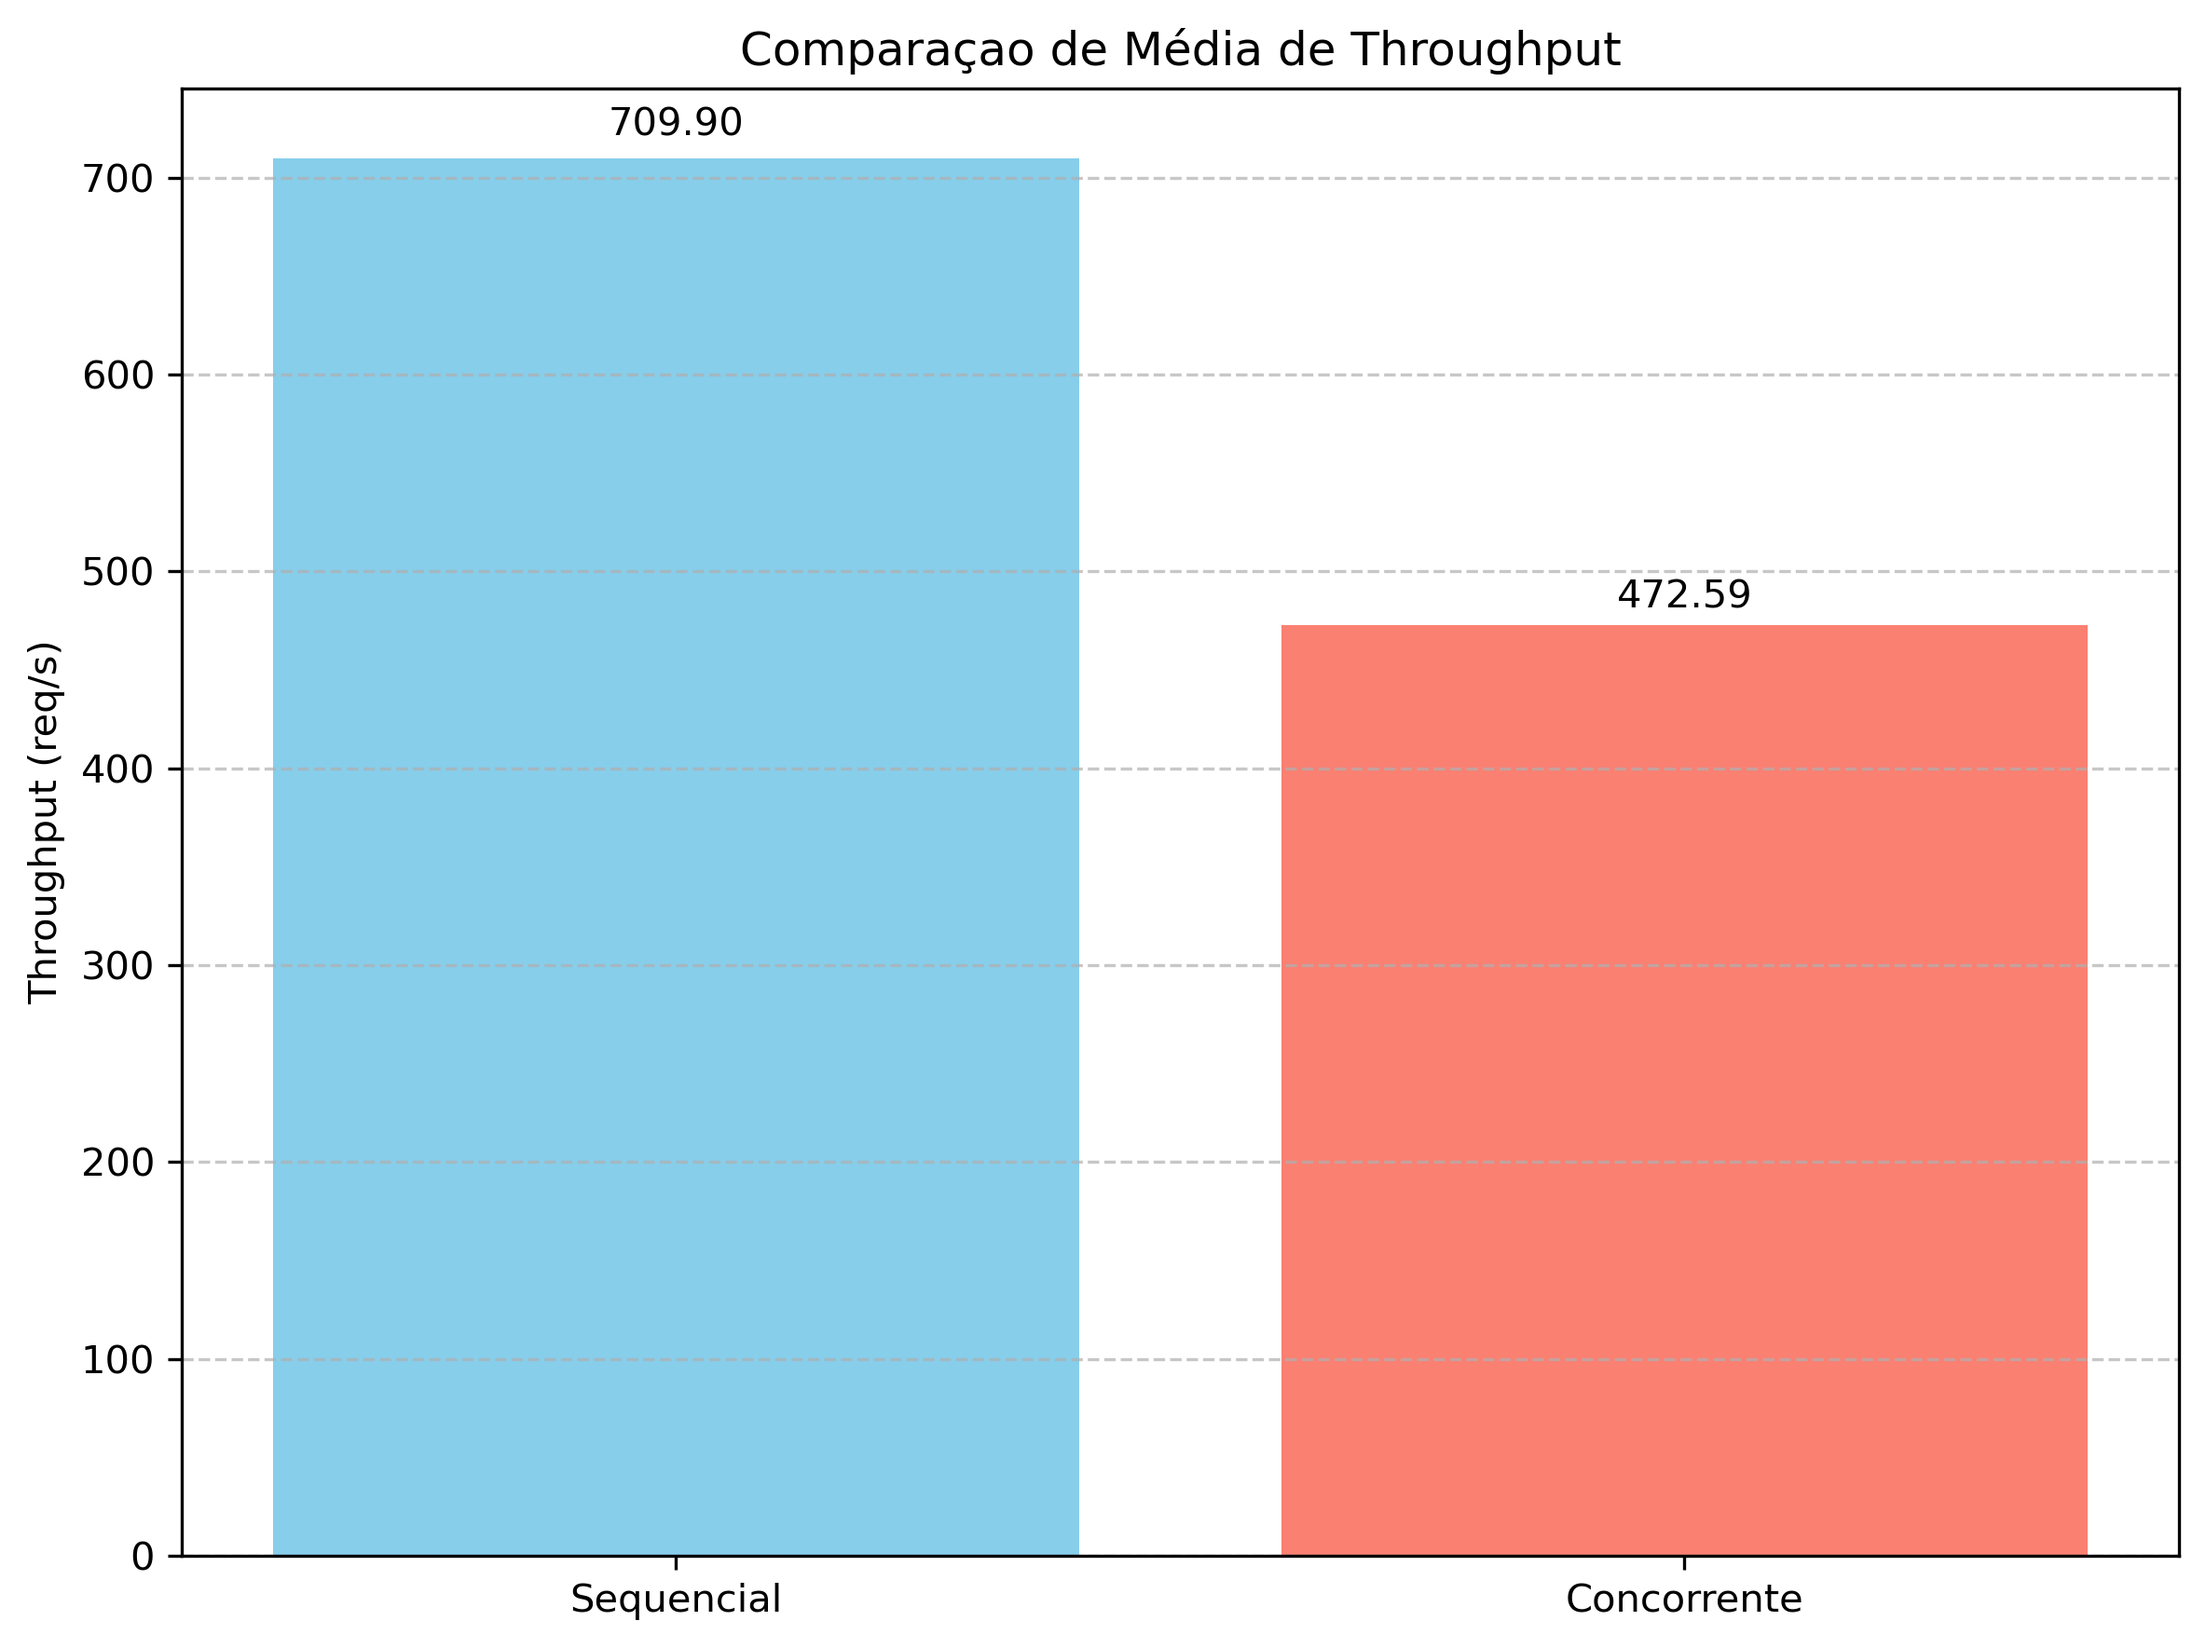
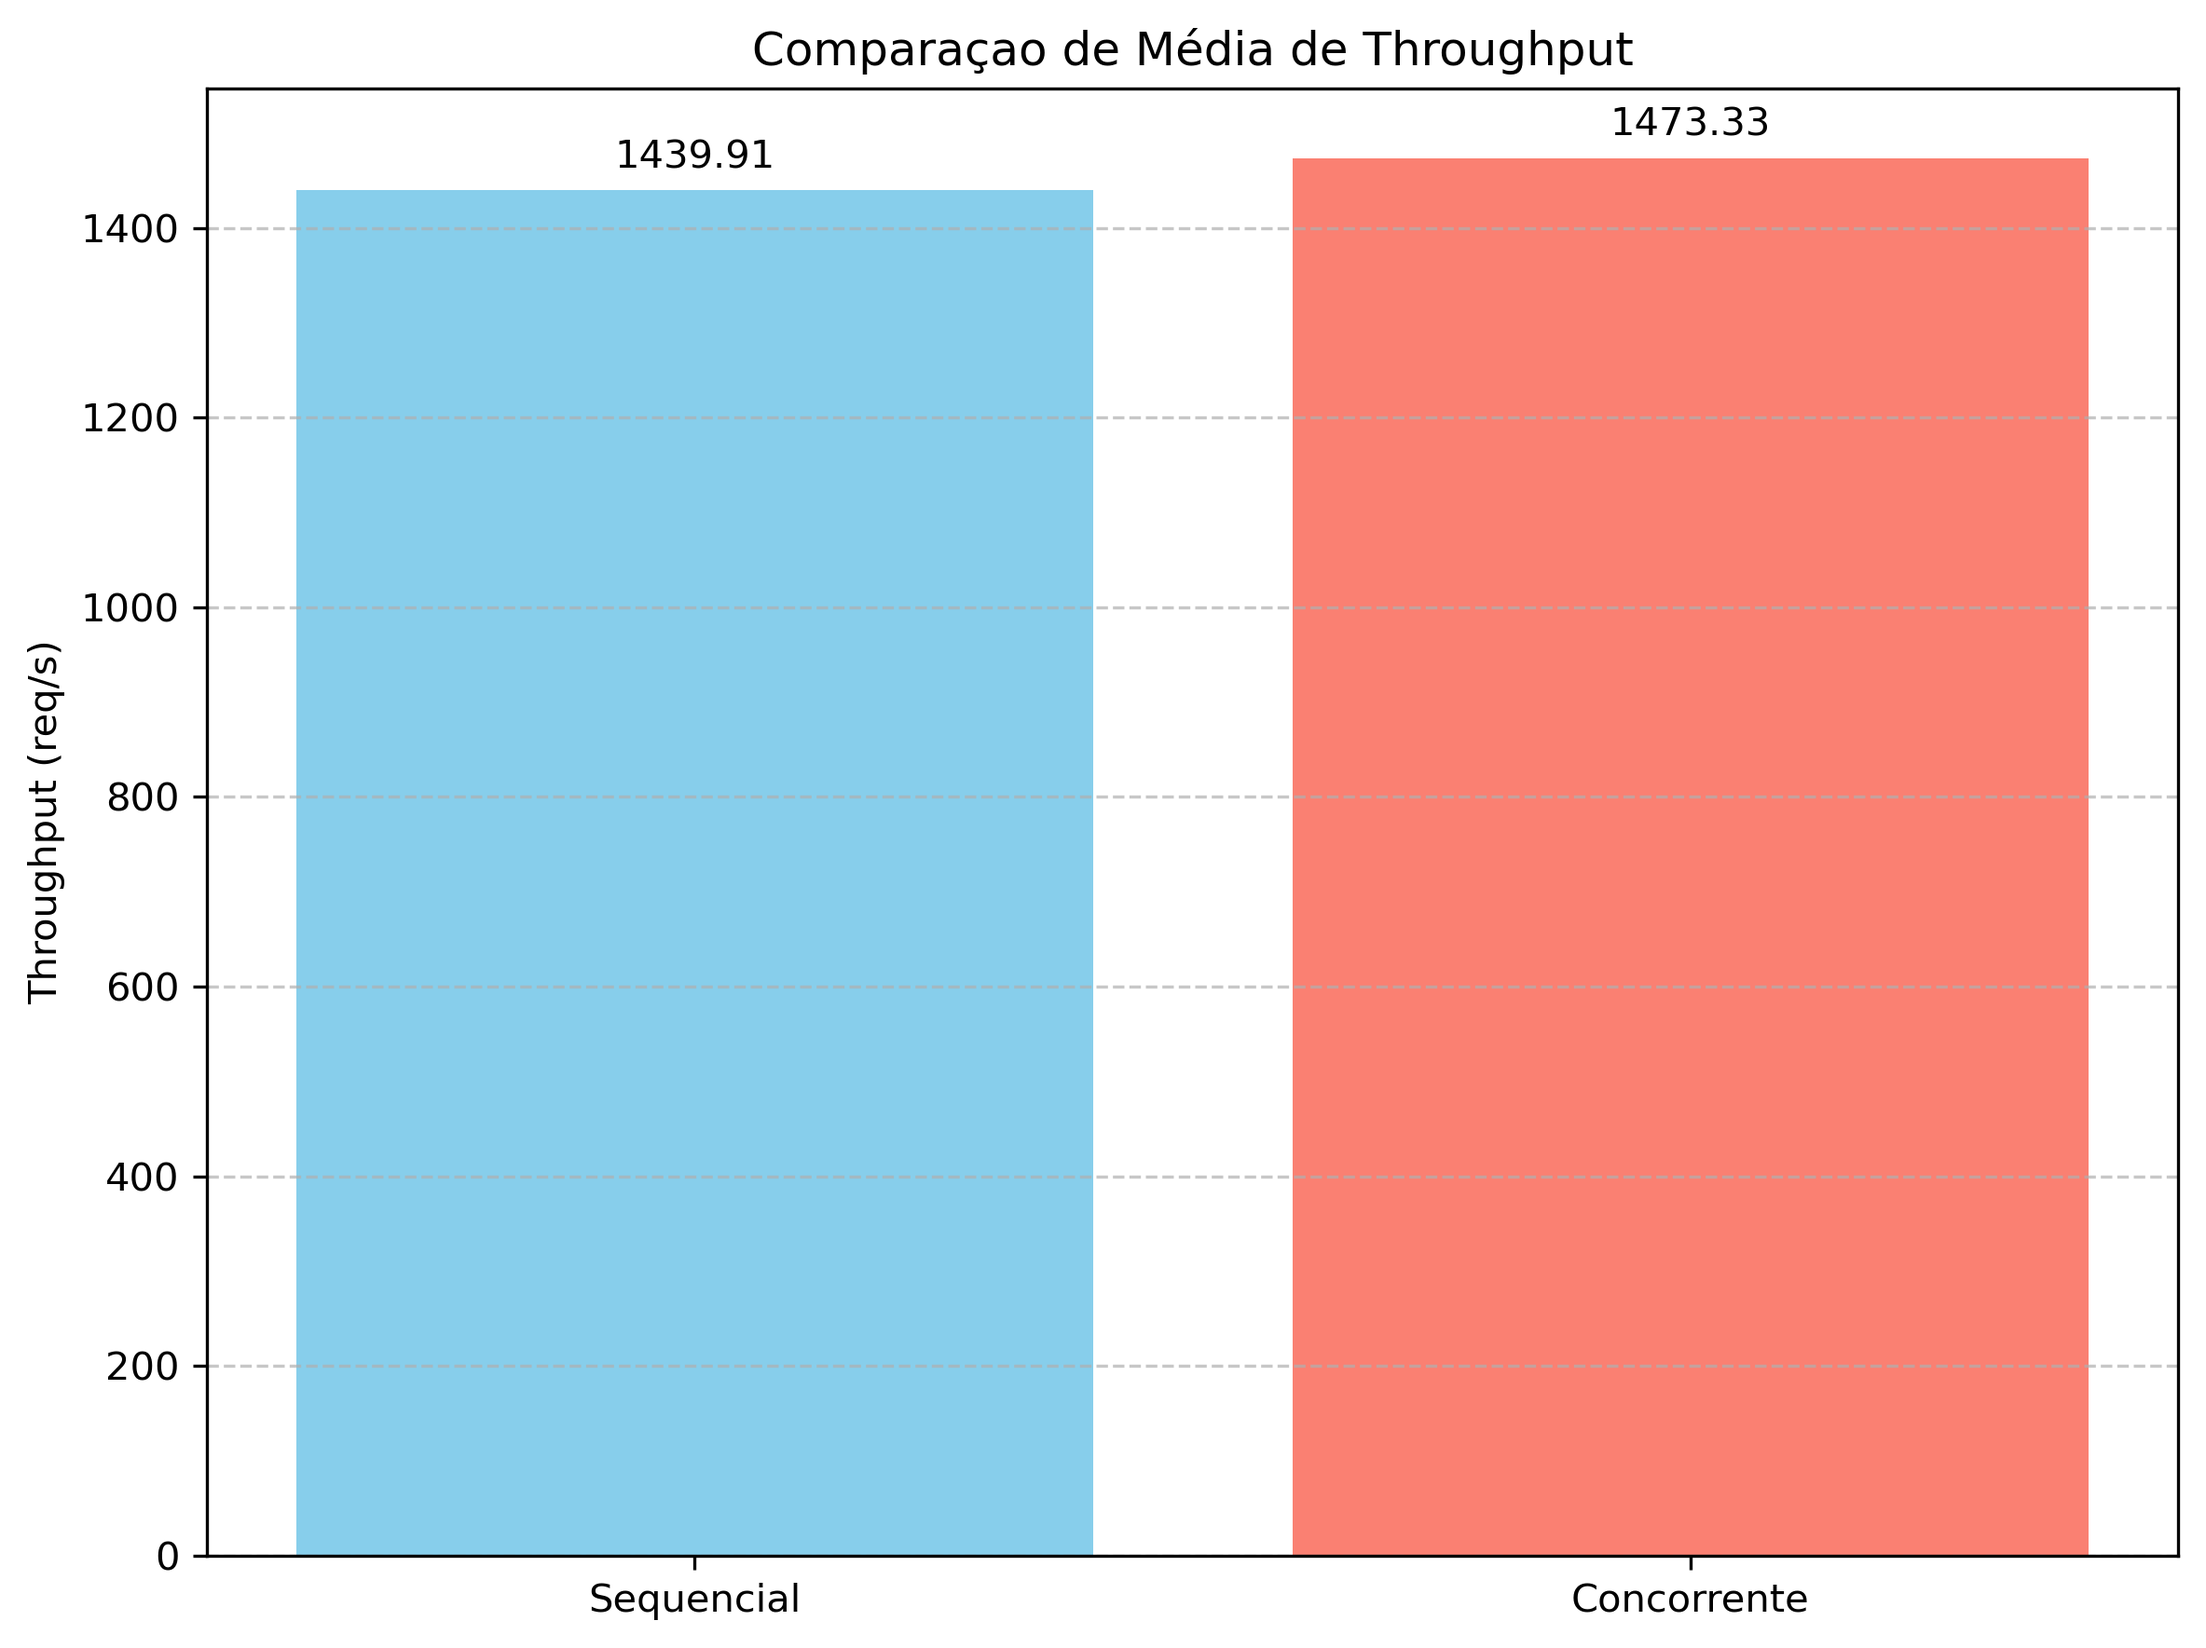
add algumas alterações nas exibições. Conferir os gráficos

diff --git a/src/cliente/cliente.py b/src/cliente/cliente.py
@@ -14,10 +14,10 @@ def gerar_hash():
         return sha1_hash
 
 X_CUSTOM_ID = gerar_hash()
-MAX_THREADS = 2
-NUM_REQUISICOES_SEQ = 2
-NUM_REQ_CONCORRENTE = 2
-NUM_EXECUCOES = 5
+MAX_THREADS = 5
+NUM_REQUISICOES_SEQ = 5
+NUM_REQ_CONCORRENTE = 5
+NUM_EXECUCOES = 20
  
 class Cliente():
     def __init__(self, host, porta):
@@ -68,18 +68,12 @@ if __name__ == "__main__":
     servidor_host_assincrono = 'servidor-assincrono' 
     servidor_porta_assincrono = 8080
     
-    # cenarios_teste = [
-    #     {'metodo':'GET', 'caminho':'/'}
-    # ]
-    # cenario1 = cenarios_teste[0]
-    # chave1 = f"{cenario1['metodo']} - {cenario1['caminho']}"
-    
     resultados_sincrono = {}
     resultados_assincrono = {}
     
     
     print('=======================TESTE DO SERVIDOR SINCRONO=======================')
-    # if aguardar_servidor(servidor_host_sincrono, servidor_porta_sincrono):
+    
     print('-----------Teste inicial-----------')
     cliente = Cliente(servidor_host_sincrono, servidor_porta_sincrono)
     success, response_time, resposta = cliente.enviar_requisicao(metodo='GET', caminho='/')
@@ -89,11 +83,9 @@ if __name__ == "__main__":
     resultados_sincrono['GET - /'] = []
     for i in range(NUM_EXECUCOES):
         print(f'------------------ Execucao {i+1} ------------------')
-        resultado_sincrono = teste_sequencial(metodo='GET', caminho='/', cliente=cliente)
+        resultado_sincrono = teste_sequencial(metodo='GET', caminho='/', num_requisicoes=NUM_REQUISICOES_SEQ, cliente=cliente)
         resultados_sincrono['GET - /'].append(resultado_sincrono)
-    
-    
-    print(resultados_sincrono['GET - /'])   
+     
         
     print('======================TESTE DO SERVIDOR ASSINCRONO======================')
     
@@ -105,18 +97,9 @@ if __name__ == "__main__":
     resultados_assincrono['GET - /'] = []
     for i in range(NUM_EXECUCOES):
         print(f'------------------ Execucao {i+1} ------------------')
-        resultado_assincrono = teste_sequencial(metodo='GET', caminho='/', cliente=cliente)
+        resultado_assincrono = teste_concorrente(metodo='GET', caminho='/', num_requisicoes = NUM_REQ_CONCORRENTE,  num_threads = MAX_THREADS, cliente=cliente)
         resultados_assincrono['GET - /'].append(resultado_assincrono)
-        
-    salvar_execucoes_csv(resultados_sincrono, 'sequencial', arquivo='resultados/sincrono.csv')
-    salvar_execucoes_csv(resultados_assincrono, 'concorrente', arquivo='resultados/assincrono.csv')
- 
-    print(resultados_assincrono['GET - /'])
-    
-    # AGORA SALVA OS CSVs (DEPOIS DE COLETAR TODOS OS DADOS)
-    print('\n======================SALVANDO RESULTADOS EM CSV======================')
-    
-    
+            
     
     print('======================ESTATISTICAS DO SERVIDOR SINCRONO======================')
     # Calcular estatísticas
@@ -129,19 +112,20 @@ if __name__ == "__main__":
     # Calcular estatísticas
     stats_assinc = calcular_estatisticas(resultados_assincrono)
     
+    mostrar_resultados(stats_assinc)
+
+    #SALVANDO OS CSVs
+    salvar_execucoes_csv(resultados_sincrono, 'sequencial', arquivo='resultados/sincrono.csv')
+    salvar_execucoes_csv(resultados_assincrono, 'concorrente', arquivo='resultados/assincrono.csv')
+ 
     salvar_estatisticas_csv(stats_sinc, nome_servidor='sincrono', arquivo='resultados/resultados_sincrono.csv')
     salvar_estatisticas_csv(stats_assinc, nome_servidor='assincrono', arquivo='resultados/resultados_assincrono.csv')
     
     
-    print('\n======================GERANDO GRÁFICOS======================')
+    #EXECUTANDO OS GRAFICOS
 
-    grafico_vazao_execucoes('resultados/sincrono.csv', 'resultados/assincrono.csv', 'graficos/vazao_execucoes.png')
-    
-    grafico_barras_throughput('resultados/resultados_sincrono.csv', 'resultados/resultados_assincrono.csv', 'graficos/barras_throughput.png')
-    grafico_tempo_execucoes('resultados/sincrono.csv', 'resultados/assincrono.csv', 'graficos/tempo_execucoes.png')
+    grafico_vazao_execucoes('resultados/sincrono.csv', 'resultados/assincrono.csv', '../../graficos/vazao_execucoes.png')
+    grafico_barras_throughput('resultados/resultados_sincrono.csv', 'resultados/resultados_assincrono.csv', '../../graficos/barras_throughput.png')
+    grafico_tempo_execucoes('resultados/sincrono.csv', 'resultados/assincrono.csv', '../../graficos/tempo_execucoes.png')
 
-    
-    for i in stats_assinc:
-        print(i, stats_assinc[i])
-    mostrar_resultados(stats_assinc)
  

diff --git a/src/cliente/testes.py b/src/cliente/testes.py
@@ -1,23 +1,21 @@
 import time
 import threading
 
-MAX_THREADS = 5
-NUM_REQUISICOES_SEQ = 5
-NUM_REQ_CONCORRENTE = 2
+# MAX_THREADS = 5
+# NUM_REQUISICOES_SEQ = 5
+# NUM_REQ_CONCORRENTE = 2
 
-def teste_sequencial(metodo, caminho, num_requisicoes=NUM_REQUISICOES_SEQ, cliente = None):
-    print(f"Realizando {num_requisicoes} requisicões sequenciais para {cliente.host}:{cliente.porta}")
-    
+def teste_sequencial(metodo, caminho, num_requisicoes, cliente = None):
     tempos = []
     falhas = []
     tempo_inicial = time.time()
     for i in range(num_requisicoes):
         ok, response_time, resposta = cliente.enviar_requisicao(metodo, caminho)
         if ok:
-            print(f'------------------------------ Requisicao {i+1} ------------------------------')
-            print(resposta)
+            # print(f'------------------------------ Requisicao {i+1} ------------------------------')
+            # print(resposta)
             tempos.append(response_time)
-            print(f'\t[{i+1}]  \t {response_time*1000:.2f} ms')
+            # print(f'\t[{i+1}]  \t {response_time*1000:.2f} ms')
         else:
             falhas.append(resposta)
             print(f'\t[{i+1}]  \t Falha na requisicao: {resposta}')
@@ -41,22 +39,22 @@ def teste_sequencial(metodo, caminho, num_requisicoes=NUM_REQUISICOES_SEQ, clien
             }
   
   
-def executar_cliente_concorrente(num_requisicoes=NUM_REQ_CONCORRENTE, cliente = None, id_thread=0, metodo='GET', caminho='/', tempos=[], lock=None, falhas=[]):
+def executar_cliente_concorrente(num_requisicoes, cliente = None, id_thread=0, metodo='GET', caminho='/', tempos=[], lock=None, falhas=[]):
     
     for i in range(num_requisicoes):
         ok, response_time, resposta = cliente.enviar_requisicao(metodo, caminho)
         with lock:
             if ok:
-                print(f'---------------- Thread[{id_thread}] ----------------')
-                print(resposta)
+                # print(f'---------------- Thread[{id_thread}] ----------------')
+                # print(resposta)
                 tempos.append(response_time)
-                print(f'\tThread[{id_thread}]  Req - {i+1}\t {response_time*1000:.2f} ms')
+                # print(f'\tThread[{id_thread}]  Req - {i+1}\t {response_time*1000:.2f} ms')
             else:
                 falhas.append(resposta)
                 print(f'\tThread[{id_thread}]  Req - {i+1}\t Falha na requisicao: {resposta}')
     
   
-def teste_concorrente(num_requisicoes=NUM_REQ_CONCORRENTE, num_threads=MAX_THREADS, cliente = None, metodo='GET', caminho='/'):
+def teste_concorrente(metodo, caminho, num_requisicoes, num_threads, cliente = None, ):
     print(f"Realizando {num_requisicoes} requisicões concorrentes para {cliente.host}:{cliente.porta} com {num_threads} threads")
     
     tempos = []

diff --git a/src/cliente/resultados.py b/src/cliente/resultados.py
@@ -106,7 +106,7 @@ def mostrar_resultados(estatisticas):
             desvio = valores['Desvio Padrao']
             print(f"  {metrica:.<40} Média: {media:>10.2f} | Desvio: {desvio:>10.2f}")
 
-def grafico_vazao_execucoes(arquivo_sincrono='resultados_sincrono.csv', arquivo_assincrono='resultados_assincrono.csv', output='graficos/vazao_execucoes.png'):
+def grafico_vazao_execucoes(arquivo_sincrono='resultados_sincrono.csv', arquivo_assincrono='resultados_assincrono.csv', output='../../graficos/vazao_execucoes.png'):
     
     # Diretório base e criaçao da pasta graficos
     os.makedirs(os.path.dirname(output) if os.path.dirname(output) else '.', exist_ok=True)
@@ -135,7 +135,7 @@ def grafico_vazao_execucoes(arquivo_sincrono='resultados_sincrono.csv', arquivo_
     plt.close()
 
     
-def grafico_tempo_execucoes(arquivo_sincrono='resultados_sincrono.csv', arquivo_assincrono='resultados_assincrono.csv', output='graficos/tempo_execucoes.png'):
+def grafico_tempo_execucoes(arquivo_sincrono='resultados_sincrono.csv', arquivo_assincrono='resultados_assincrono.csv', output='../../graficos/tempo_execucoes.png'):
     # Diretório base e criaçao da pasta graficos
     os.makedirs(os.path.dirname(output) if os.path.dirname(output) else '.', exist_ok=True)
 
@@ -164,7 +164,7 @@ def grafico_tempo_execucoes(arquivo_sincrono='resultados_sincrono.csv', arquivo_
 
     
     
-def grafico_barras_throughput(arquivo_sincrono='resultados_sincrono.csv', arquivo_assincrono='resultados_assincrono.csv', output='graficos/barras_throughput.png'):
+def grafico_barras_throughput(arquivo_sincrono='resultados_sincrono.csv', arquivo_assincrono='resultados_assincrono.csv', output='../../graficos/barras_throughput.png'):
 
     # Diretório base e criaçao da pasta graficos
     os.makedirs(os.path.dirname(output) if os.path.dirname(output) else '.', exist_ok=True)

diff --git a/src/servidor_sincrono/servidorSincrono.py b/src/servidor_sincrono/servidorSincrono.py
@@ -29,10 +29,10 @@ class ServidorSequencial():
         try:
             self.servidor_socket.bind((HOST, PORT))
             self.servidor_socket.listen(5)
-            print(f'Servidor iniciado em {self.host}:{self.porta}')
+            # print(f'Servidor iniciado em {self.host}:{self.porta}')
             while True:
                 cliente, endereco = self.servidor_socket.accept()
-                print(f'Conexão estabelecida com {endereco}')
+                # print(f'Conexão estabelecida com {endereco}')
                 self.tratar_cliente(cliente, endereco)
         except Exception as e:
             print(f"Erro no servidor: {e}")
@@ -105,14 +105,6 @@ class ServidorSequencial():
             if caminho_requisicao == '/':
                 conteudo = f'Bem vindo ao servidor sequencial!'
                 observacao = f'Metodo GET realizado na raiz'
-            else:
-                status_code = 404
-                conteudo = f'Caminho nao encontrado'
-                observacao = f'Erro'
-        elif metodo_requisicao == 'POST':
-            if caminho_requisicao == '/dados':
-                conteudo = f'Dados recebidos com sucesso!'
-                observacao = f'POST executado.'
             else:
                 status_code = 404
                 conteudo = f'Caminho nao encontrado'

diff --git a/src/servidor_assincrono/servidorAssincrono.py b/src/servidor_assincrono/servidorAssincrono.py
@@ -33,7 +33,7 @@ class ServidorConcorrente():
         try:
             self.servidor_socket.bind((self.host, self.porta))
             self.servidor_socket.listen(MAX_CONEXOES)
-            print(f'Servidor iniciado em {self.host}:{self.porta}')
+            # print(f'Servidor iniciado em {self.host}:{self.porta}')
             while True:
                 cliente, endereco = self.servidor_socket.accept()
                 thread_cliente = threading.Thread(target=self.gerenciar_cliente, args=(cliente, endereco))
@@ -121,14 +121,6 @@ class ServidorConcorrente():
             if caminho_requisicao == '/':
                 conteudo = f'Bem vindo ao servidor Concorrente!'
                 observacao = f'Metodo GET realizado na raiz'
-            else:
-                status_code = 404
-                conteudo = f'Caminho nao encontrado'
-                observacao = f'Erro'
-        elif metodo_requisicao == 'POST':
-            if caminho_requisicao == '/dados':
-                conteudo = f'Dados recebidos com sucesso!'
-                observacao = f'POST executado.'
             else:
                 status_code = 404
                 conteudo = f'Caminho nao encontrado'
